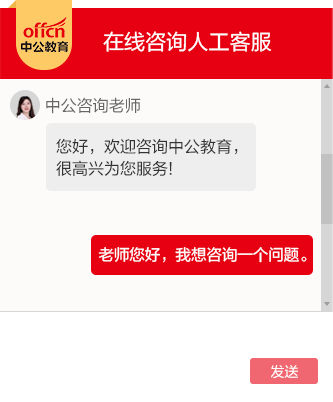
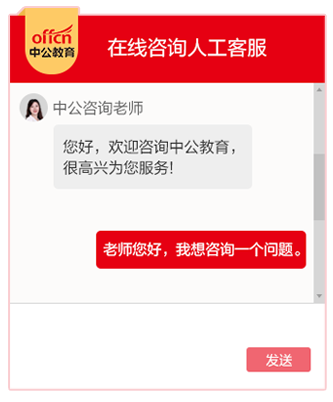
feat : 更新样式;

Changed region(s): [[0.0, 0.0, 1.0, 0.9851], [0.1502, 0.3284, 0.7207, 0.4478]]

diff --git a/libraries/login/v5/template/float-pc.css b/libraries/login/v5/template/float-pc.css
@@ -121,21 +121,21 @@ ul,ul li { margin:0; }
 }
 
 .chaos-folat .chaos-popup-close-top {
-  top: -35px;
+  top: -28px;
   right: 0;
 }
 
 .chaos-folat .chaos-popup-do-not-show {
   color: gainsboro;
-  left: 10px;
-  bottom: 8px;
+  left: 14px;
+  bottom: 12px;
   font-size: 14px;
 }
 
 .chaos-folat .chaos-popup-input {
   display: none;
   position: absolute;
-  top: 316px;
+  top: 312px;
   color: #999999;
-  text-indent: 10px;
+  text-indent: 18px;
 }
